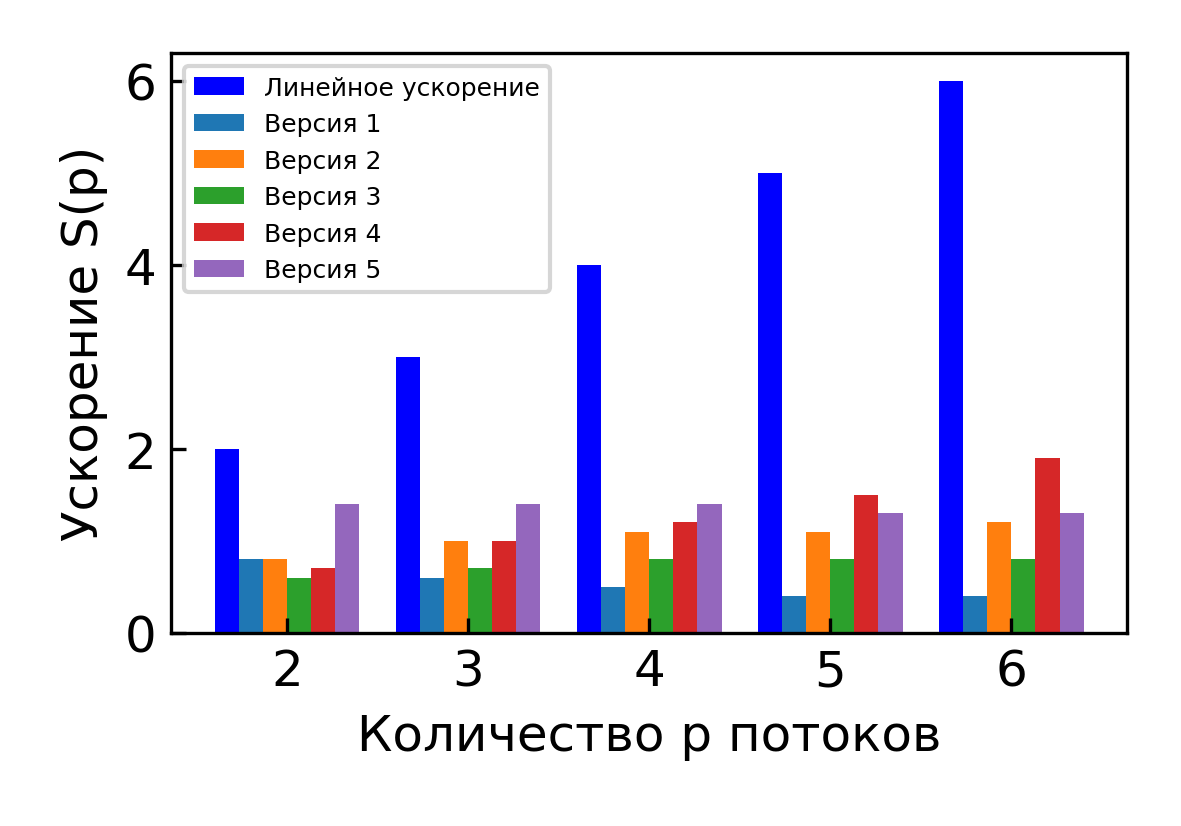
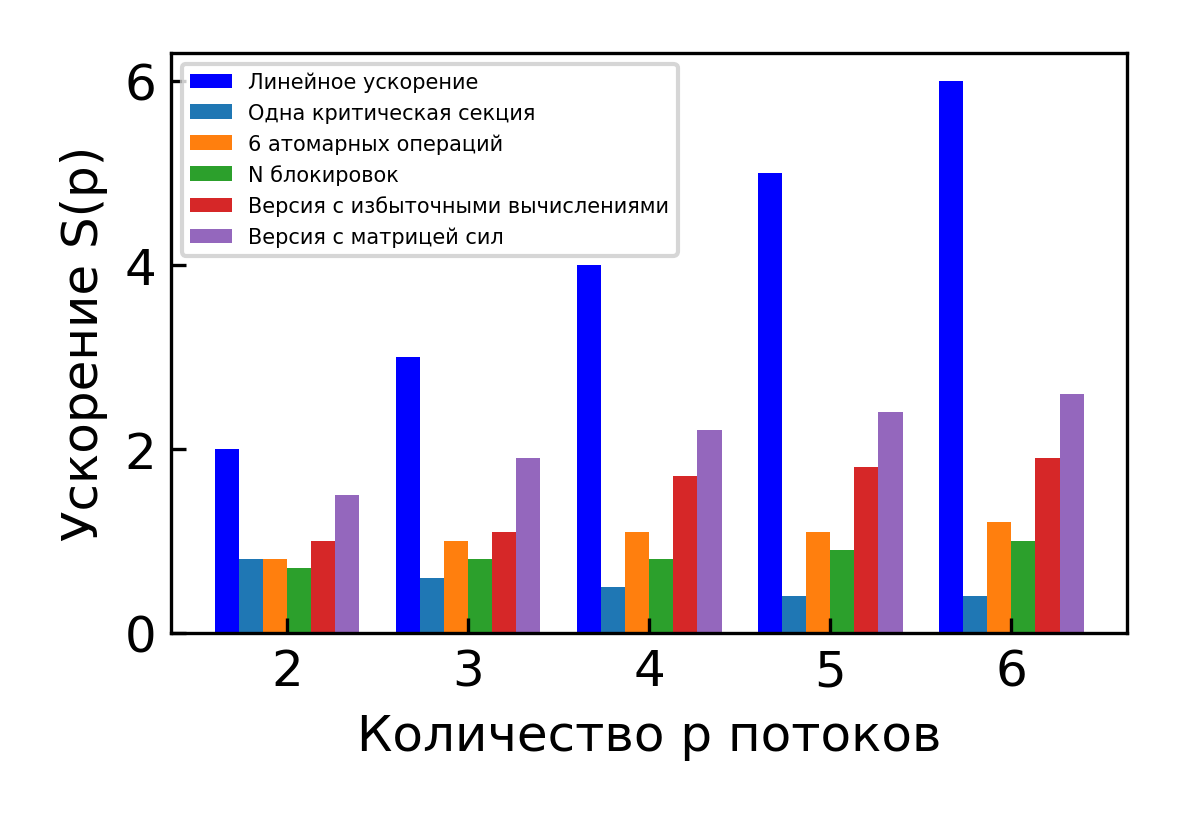
[fix] Fixed the number of iterations issued to the thread dynamically

diff --git a/pct-spring-lab4/chart.py b/pct-spring-lab4/chart.py
@@ -14,7 +14,7 @@ def draw(filenames, labels):
     plt.rcParams['font.family'] = 'sans-serif'
     plt.rcParams['font.size'] = '12'
     plt.rcParams["legend.loc"] = "upper left" # 'upper left', 'upper right', 'lower left', 'lower right', 'center'
-    plt.rcParams["legend.fontsize"] = "6"
+    plt.rcParams["legend.fontsize"] = "5"
     
     cm = 1/2.54  # centimeters in inches
     fig = plt.figure(figsize=(10*cm, 7*cm))
@@ -66,5 +66,5 @@ def draw(filenames, labels):
     # fig.savefig('chart.pdf', dpi=300)
 
 if __name__ == "__main__":
-    # draw(["prog1.dat", "prog2.dat", "prog3.dat", "prog4.dat", "prog5.dat"], ["одна критическая секция", "6 атомарных операций", "n блокировок", "версия без блокировок с избыточными вычислениями", "версия без блокировок с локальным хранением вектора сил в каждом потоке"])
-    draw(["prog1.dat", "prog2.dat", "prog3.dat", "prog4.dat", "prog5.dat"], ["Версия 1", "Версия 2", "Версия 3", "Версия 4", "Версия 5"])
+    draw(["prog1.dat", "prog2.dat", "prog3.dat", "prog4.dat", "prog5.dat"], ["Одна критическая секция", "6 атомарных операций", "N блокировок", "Версия с избыточными вычислениями", "Версия с матрицей сил"])
+    # draw(["prog1.dat", "prog2.dat", "prog3.dat", "prog4.dat", "prog5.dat"], ["Версия 1", "Версия 2", "Версия 3", "Версия 4", "Версия 5"])

diff --git a/pct-spring-lab4/ompv2.c b/pct-spring-lab4/ompv2.c
@@ -12,7 +12,7 @@ struct particle {
 const float G = 6.67e-11;
 void calculate_forces(struct particle* p, struct particle* f, float* m, int n)
 {
-#pragma omp for schedule(dynamic, 4) nowait // Циклическое распределение итераций
+#pragma omp for schedule(dynamic, 6) nowait // Циклическое распределение итераций
     for (int i = 0; i < n - 1; i++) {
         for (int j = i + 1; j < n; j++) {
             float dist = sqrtf(powf(p[i].x - p[j].x, 2) + powf(p[i].y - p[j].y, 2) + powf(p[i].z - p[j].z, 2));

diff --git a/pct-spring-lab4/ompv3.c b/pct-spring-lab4/ompv3.c
@@ -13,7 +13,7 @@ const float G = 6.67e-11;
 omp_lock_t* locks; // Массив из N блокировок (мьютексов) — блокировка на уровне отдельных ячеек
 void calculate_forces(struct particle* p, struct particle* f, float* m, int n)
 {
-#pragma omp for schedule(dynamic, 4) nowait
+#pragma omp for schedule(dynamic, 6) nowait
     for (int i = 0; i < n - 1; i++) {
         for (int j = i + 1; j < n; j++) {
             float dist = sqrtf(powf(p[i].x - p[j].x, 2) + powf(p[i].y - p[j].y, 2) + powf(p[i].z - p[j].z, 2));

diff --git a/pct-spring-lab4/ompv5.c b/pct-spring-lab4/ompv5.c
@@ -19,7 +19,7 @@ void calculate_forces(struct particle* p, struct particle* f[], float* m, int n)
         f[tid][i].y = 0;
         f[tid][i].z = 0;
     }
-#pragma omp for schedule(dynamic, 8)
+#pragma omp for schedule(dynamic, 1)
     for (int i = 0; i < n; i++) {
         for (int j = i + 1; j < n; j++) {
             float dist = sqrtf(powf(p[i].x - p[j].x, 2) + powf(p[i].y - p[j].y, 2) + powf(p[i].z - p[j].z, 2));

diff --git a/pct-spring-lab4/ompv4.c b/pct-spring-lab4/ompv4.c
@@ -12,7 +12,7 @@ struct particle {
 const float G = 6.67e-11;
 void calculate_forces(struct particle* p, struct particle* f, float* m, int n)
 {
-#pragma omp for schedule(dynamic, 4) nowait
+#pragma omp for schedule(dynamic, 6) nowait
     for (int i = 0; i < n; i++) {
         for (int j = 0; j < n; j++) {
             if (i == j)
